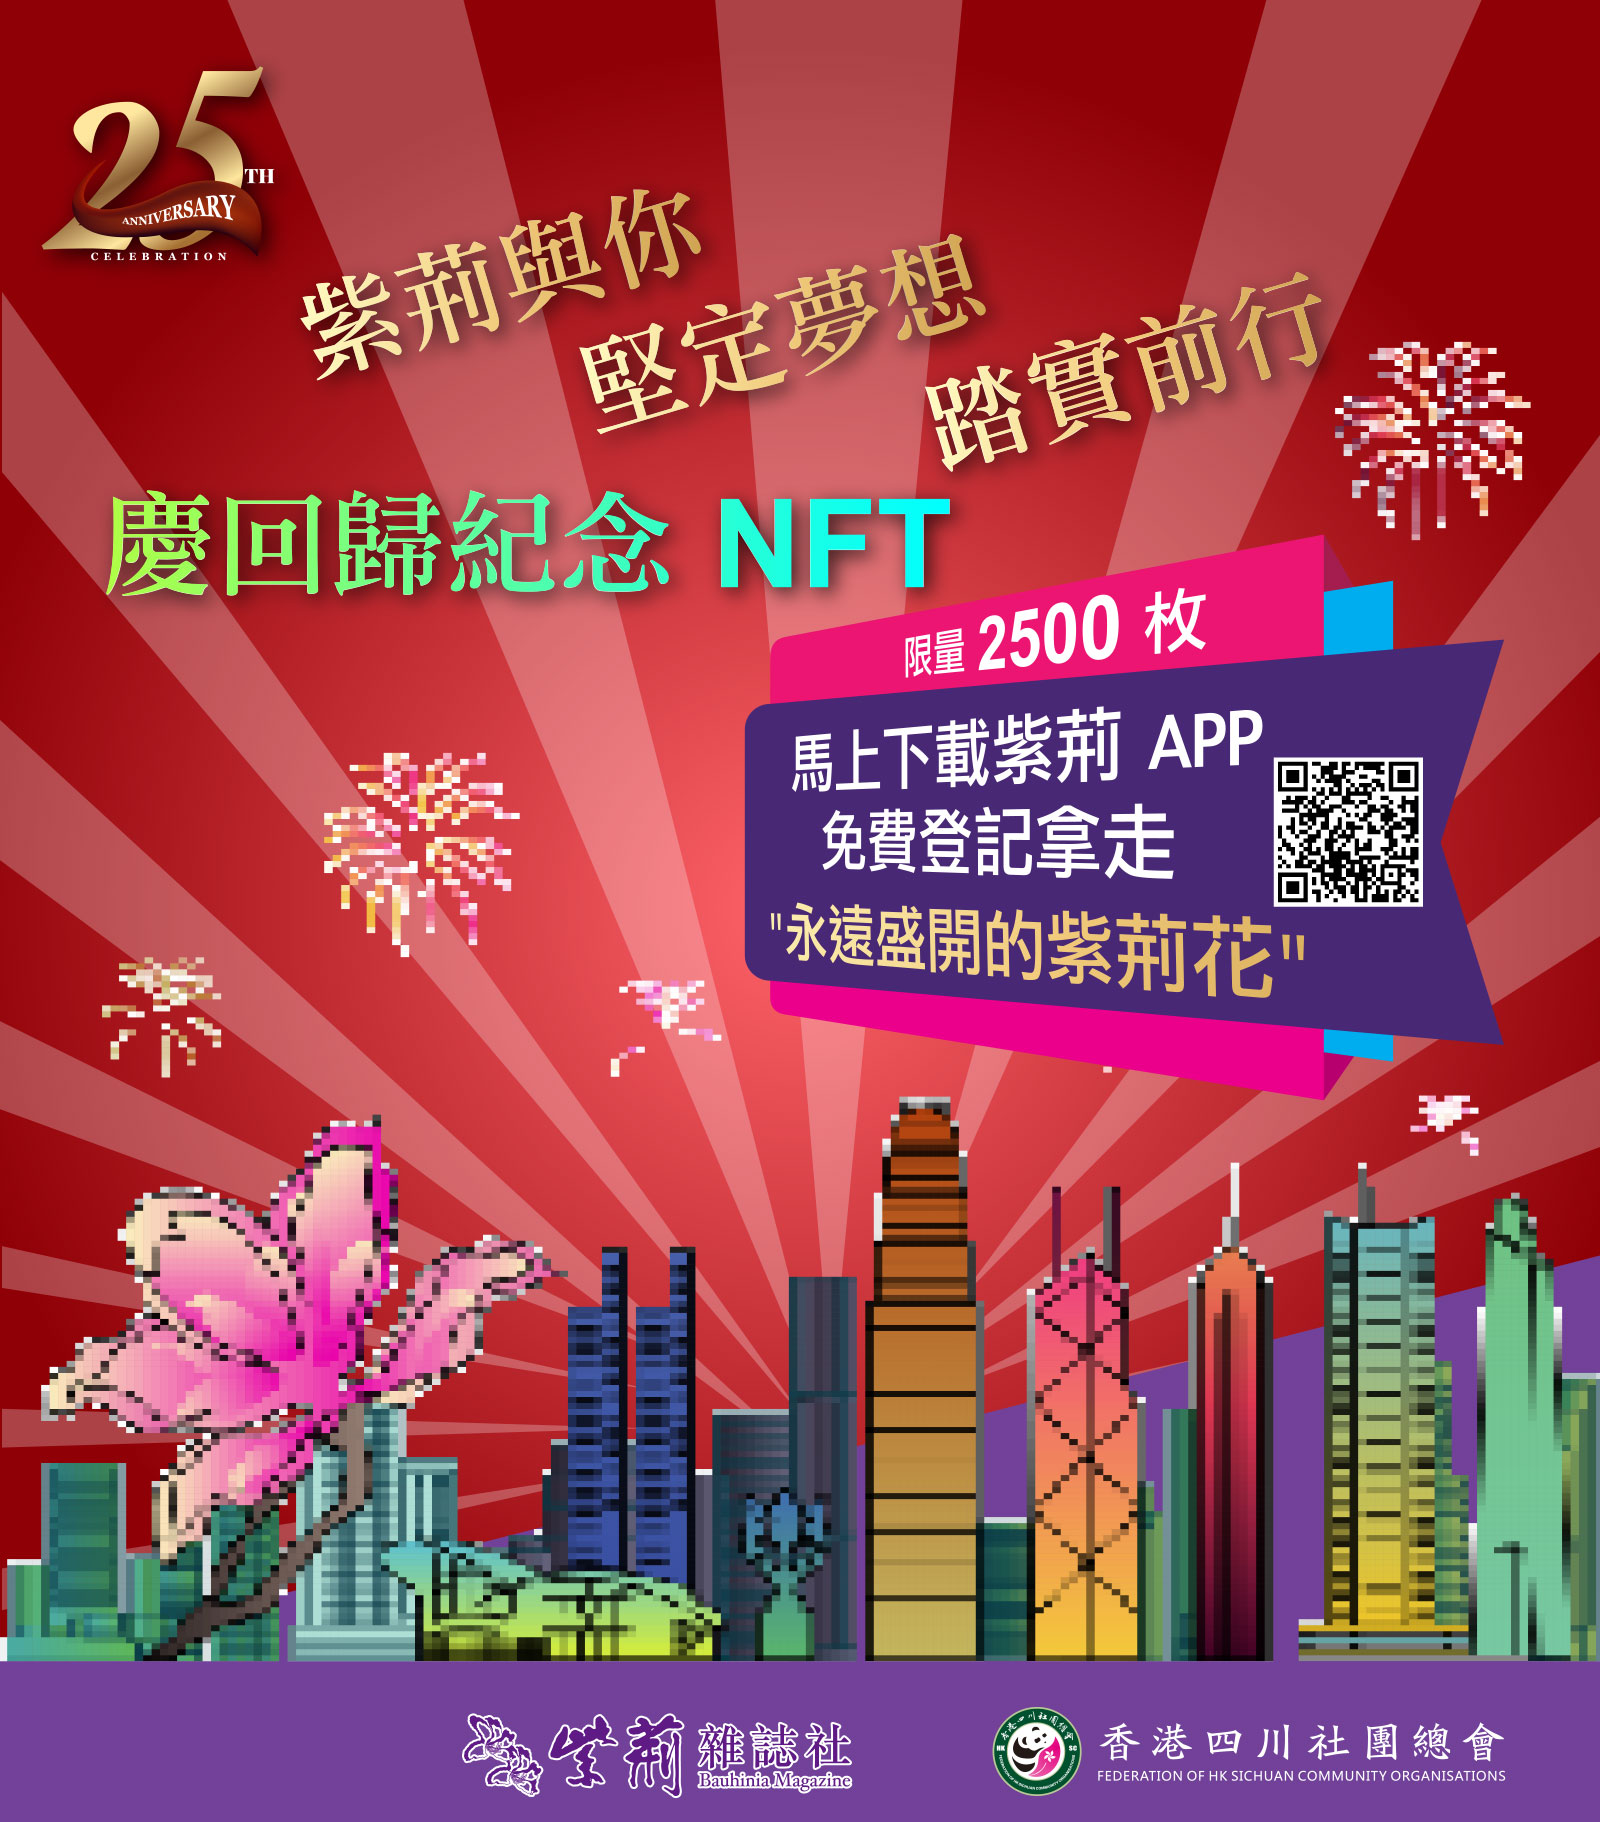
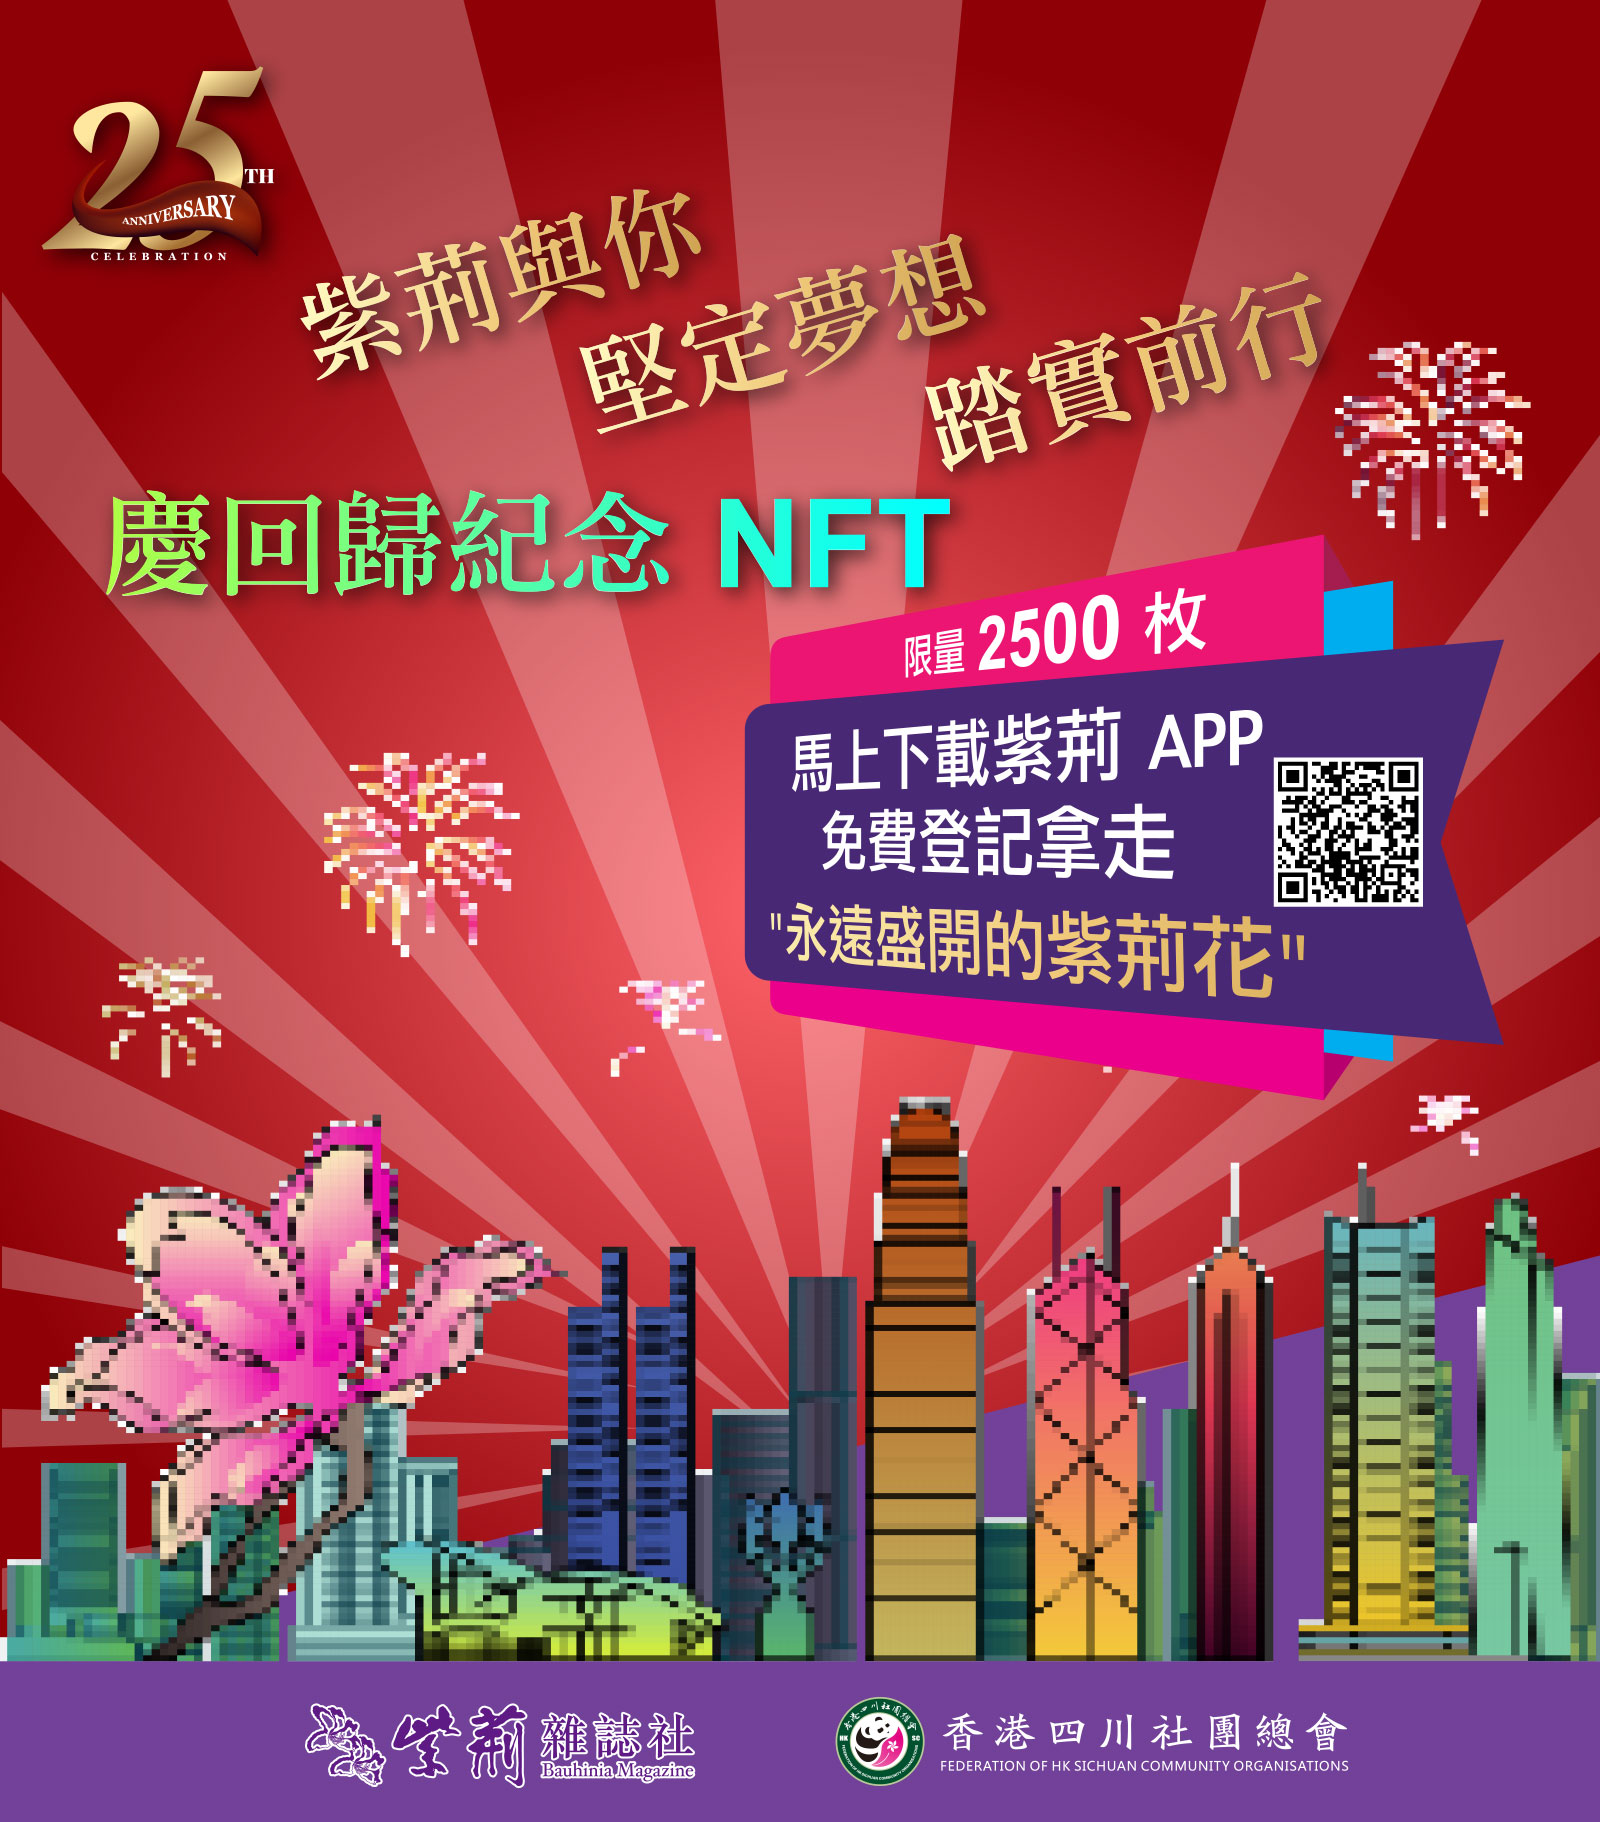
update

Changed region(s): [[0.1875, 0.9221, 0.9375, 0.9835]]

diff --git a/src/App.vue b/src/App.vue
@@ -2,8 +2,8 @@
 <Header/>
 
 <div class="section-1 container">
-  <img src="/src/assets/block-1.svg" alt=""/>
-  <img src="/src/assets/block-2.svg" alt=""/>
+  <img src="/src/assets/block-1.png" alt=""/>
+  <img src="/src/assets/block-2.png" alt=""/>
 </div>
 <div class="section-2 container">
   <div class="line">
@@ -128,7 +128,7 @@
 </div>
 
 <Alert :show="showAlert" title="Ooops. 手機 APP， 一定要用手機下載哦！" text="2500 NFTs 免費送出, 先到先得！" @ok="()=>closeAlert()"></Alert>
-<a class="floor" href="https://www.1boxnft.com"><img src="/src/assets/icon/onebox.svg" alt=""> 由1box提供技术支持</a>
+<a class="floor" href="https://www.1boxnft.com"><img src="/src/assets/icon/onebox.svg" alt=""> 提供技術支持</a>
 </template>
 
 <script lang="ts" setup>
@@ -396,6 +396,7 @@ body {
       color: #979797;
       margin-top: 48px;
       width: 170px;
+      position: relative;
       img {
         width: 70px;
       }
@@ -408,6 +409,7 @@ body {
       }
       &:hover {
         .message {
+          position: absolute;
           display: block;
           cursor: pointer;
           &:hover {
@@ -427,8 +429,9 @@ body {
   justify-content: center;
   color: #fff;
   text-decoration: none;
+  padding: 0.25em;
   img {
-    width: 3rem;
+    margin: 0.5em;
   }
 }
 
